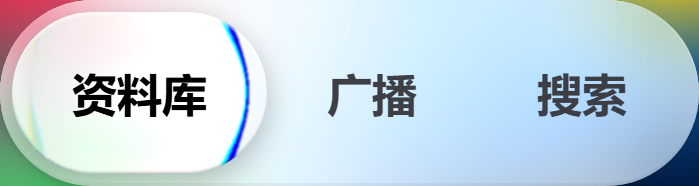
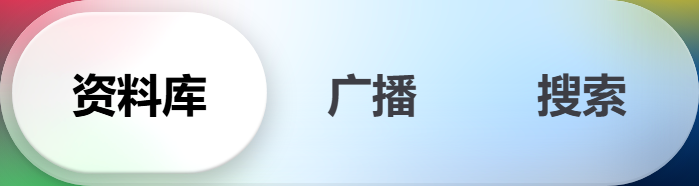
fix(optics): 位移贴图改为径向场，消除折射的方向不对称
接上一个提交。把折射量改成按尺寸缩放后，指示器右缘仍残留一道
**单色蓝竖线** —— 根因不是参数，是贴图的构造。

原构造：线性梯度**铺满全图**，再用一块**模糊的圆角矩形**把中心压回中性。
衰减轮廓因此是**矩形**的 —— 位移场是「剪切」而不是径向透镜，
各方向不对称，色散在某一侧堆积成单色边。调参消不掉。

新构造：中性灰基底（零位移）+ 线性梯度用**径向剖面遮罩**。
位移向量成为 A(r) × (x−cx, y−cy)，方向严格指向外，天然对称。

两处附带修正：
- 基底从黑色改为中性灰。黑色在 feDisplacementMap 里等于**最大负位移**，
  未被梯度覆盖的区域（如圆角之外）会整片剧烈偏移。
- 两条梯度的合并从 difference 改为 screen —— 中性灰基底上 difference 会反相。

效果（screenshots/refraction-progress.png 三阶段对比）：
  ① 原始      团块 + 硬边闭合曲线，不贴合胶囊
  ② 按尺寸缩放 填满胶囊，残留单色蓝竖线
  ③ 径向场     条纹对称弯曲，彩边细微且两侧都有，中心近乎不失真

⚠ 遗留：折射变温和后，**Tier A 与 Tier B 在常规尺寸下不易区分**，
而 SPEC §2 要求指示器「必须有可见色散」。放大能看到对称彩边，小尺寸偏弱。
强度档位可能需要上调，但在拿到 iOS 真机截图之前不做 ——
没有基准的调参就是来回瞎试。已记入 optics-web.md §3.9。

四项检查全绿；18 个 Fidelity 变体已重新生成。

Changed region(s): [[0.3004, 0.1075, 0.3605, 0.8871], [0.0, 0.5376, 0.0901, 0.8333]]

diff --git a/packages/glass-core/src/filter/displacement-map.ts b/packages/glass-core/src/filter/displacement-map.ts
@@ -61,7 +61,7 @@ export const DISPLACEMENT_DEFAULTS = {
   brightness: 50,
   opacity: 0.93,
   blur: 6,
-  mixBlendMode: 'difference',
+  mixBlendMode: 'screen',
 } as const;
 
 /** 缓存键：相同尺寸/圆角/边宽的实例共享同一份贴图与同一个 `<filter>` 定义。 */
@@ -97,27 +97,40 @@ export function createDisplacementMap(o: DisplacementMapOptions): ResolvedDispla
   const blur = o.blur ?? DISPLACEMENT_DEFAULTS.blur;
   const mixBlendMode = o.mixBlendMode ?? DISPLACEMENT_DEFAULTS.mixBlendMode;
 
-  // 边缘透镜带的实际厚度，取短边的比例
-  const edge = Math.min(w, h) * (borderWidth * 0.5);
-  const innerW = Math.max(0, w - edge * 2);
-  const innerH = Math.max(0, h - edge * 2);
+  /**
+   * 径向剖面的起始位置：从中心到这里完全不失真，再向外渐强到边缘满值。
+   * borderWidth 是「透镜带占短边的比例」，所以起点 = 1 − borderWidth。
+   */
+  const profileStart = Math.max(0, Math.min(0.95, 1 - borderWidth * 2));
 
   const svg =
     `<svg xmlns="http://www.w3.org/2000/svg" width="${w}" height="${h}" viewBox="0 0 ${w} ${h}">` +
     `<defs>` +
-    `<linearGradient id="x" x1="100%" y1="0%" x2="0%" y2="0%">` +
-    `<stop offset="0%" stop-color="#0000"/><stop offset="100%" stop-color="red"/>` +
+    // R 通道：水平方向的线性斜坡 → X 位移
+    `<linearGradient id="x" x1="0%" y1="0%" x2="100%" y2="0%">` +
+    `<stop offset="0%" stop-color="#000"/><stop offset="100%" stop-color="red"/>` +
     `</linearGradient>` +
+    // B 通道：垂直方向的线性斜坡 → Y 位移
     `<linearGradient id="y" x1="0%" y1="0%" x2="0%" y2="100%">` +
-    `<stop offset="0%" stop-color="#0000"/><stop offset="100%" stop-color="blue"/>` +
+    `<stop offset="0%" stop-color="#000"/><stop offset="100%" stop-color="blue"/>` +
     `</linearGradient>` +
+    // 径向剖面：中心 0（露出中性灰 → 零位移）、边缘 1（斜坡满值）
+    `<radialGradient id="p" cx="50%" cy="50%" r="50%">` +
+    `<stop offset="${profileStart}" stop-color="#000"/>` +
+    `<stop offset="100%" stop-color="#fff"/>` +
+    `</radialGradient>` +
+    `<mask id="m"><rect width="${w}" height="${h}" fill="url(#p)"` +
+    (blur > 0 ? ` style="filter:blur(${blur}px)"` : '') +
+    `/></mask>` +
     `</defs>` +
-    `<rect width="${w}" height="${h}" fill="black"/>` +
-    `<rect width="${w}" height="${h}" rx="${radius}" fill="url(#x)"/>` +
-    `<rect width="${w}" height="${h}" rx="${radius}" fill="url(#y)" ` +
-    `style="mix-blend-mode:${mixBlendMode}"/>` +
-    `<rect x="${edge}" y="${edge}" width="${innerW}" height="${innerH}" rx="${radius}" ` +
-    `fill="hsl(0 0% ${brightness}% / ${opacity})" style="filter:blur(${blur}px)"/>` +
+    // 中性灰基底 = 零位移。**不能用黑色** —— 黑色在 feDisplacementMap 里
+    // 等于最大负位移，会让未被斜坡覆盖的区域整片剧烈偏移。
+    `<rect width="${w}" height="${h}" fill="hsl(0 0% ${brightness}%)"/>` +
+    `<g mask="url(#m)" opacity="${opacity}">` +
+    `<rect width="${w}" height="${h}" fill="url(#x)"/>` +
+    // screen 合并两条斜坡：R 与 B 互不干扰（各自另一通道为 0）
+    `<rect width="${w}" height="${h}" fill="url(#y)" style="mix-blend-mode:${mixBlendMode}"/>` +
+    `</g>` +
     `</svg>`;
 
   return {

diff --git a/docs/research/optics-web.md b/docs/research/optics-web.md
@@ -325,6 +325,49 @@ PROJECT_SPEC Phase 1 任务卡要求「用 iOS 截图作为基准，反复调参
 因为挖洞的位置正是由具体组件的选中态决定的。
 Phase 1 的原语已经把两种用法都支持了（独立指示器现在就是对的）。
 
+### 3.9 位移贴图改为径向场（2026-09-01）
+
+做 Tabs 时 Tier A 露出一个明显伪影：指示器上有一道生硬的深色闭合曲线，
+折射区域是个不贴合胶囊的团块。分两步查清并修掉。
+
+#### 第一步：折射量必须按元素尺寸缩放
+
+`distortionScale` 原先是绝对像素（档位 -110 / -180 / -260），
+在 85×54 的指示器上意味着**边缘位移 ±90px —— 超过元素本身宽度**，
+边缘于是采样到完全无关的远处内容。
+
+绝对值从原理上就不成立：同一套参数要同时服务 24px 的 Slider knob
+与 390px 宽的 Sheet。改为**短边的比例** `{-0.45, -0.7, -1.0}`，
+色散偏移改为相对 `|distortionScale|` 的比例。
+
+⚠ 这个缺陷此前没暴露，因为 Phase 1 只在调试页的**一个尺寸**上标定过。
+**教训：光学参数只在一个尺寸上标定，等于没标定。**
+
+#### 第二步：衰减必须是径向的，不能是矩形的
+
+改完比例后仍残留一道**单色蓝竖线**贴在右缘。根因不是参数而是构造：
+
+原贴图把线性梯度**铺满全图**，再用一块**模糊的圆角矩形**把中心压回中性。
+于是衰减轮廓是**矩形**的 —— 位移场是「剪切」而非径向透镜，各方向不对称，
+色散在某一侧堆积成单色边。
+
+改为：中性灰基底（零位移）+ 线性梯度用**径向剖面遮罩**。
+位移向量因此是 `A(r) × (x−cx, y−cy)`，方向严格指向外，**天然对称**。
+
+两处附带修正：
+- 基底从**黑色**改为中性灰。黑色在 `feDisplacementMap` 里等于最大负位移，
+  未被梯度覆盖的区域（如圆角外）会整片剧烈偏移。
+- 两条梯度的合并从 `difference` 改为 `screen`。中性灰基底上 difference 会反相。
+
+对照图：`screenshots/refraction-progress.png`（原始 → 按尺寸缩放 → 径向场）。
+
+#### 遗留
+
+径向场消除了伪影，但折射也变温和了 —— **Tier A 与 Tier B 在常规尺寸下
+不易区分**，而 PROJECT_SPEC §2 要求指示器「必须有可见色散」。
+放大能看到对称彩边，小尺寸下偏弱。强度档位可能需要上调，
+但**在拿到 iOS 真机截图之前不做**：没有基准的调参就是来回瞎试。
+
 ## 4. 三级降级方案（修订版）
 
 PROJECT_SPEC §5.1 的分级判据需要两处修订：
